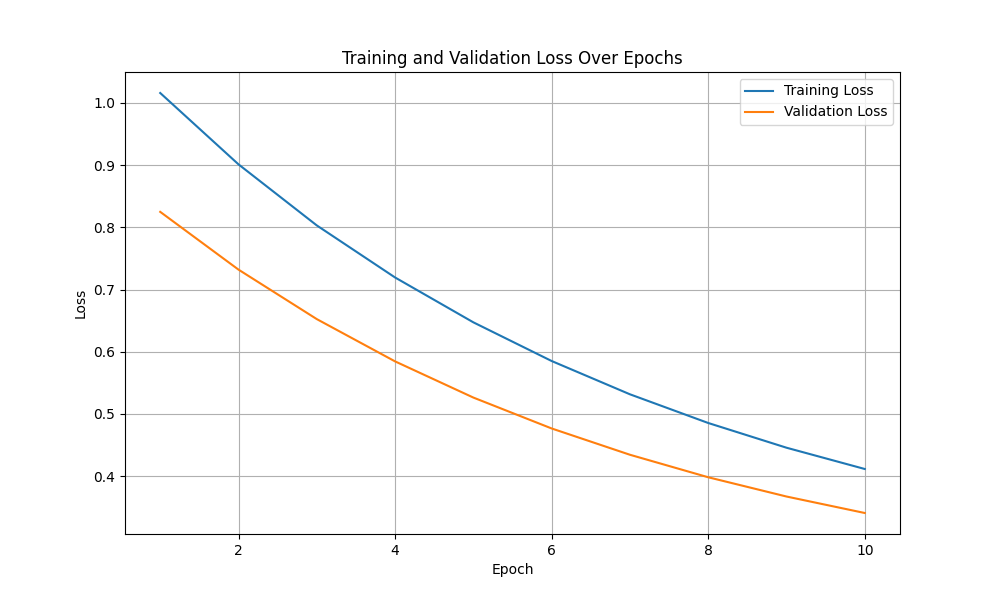
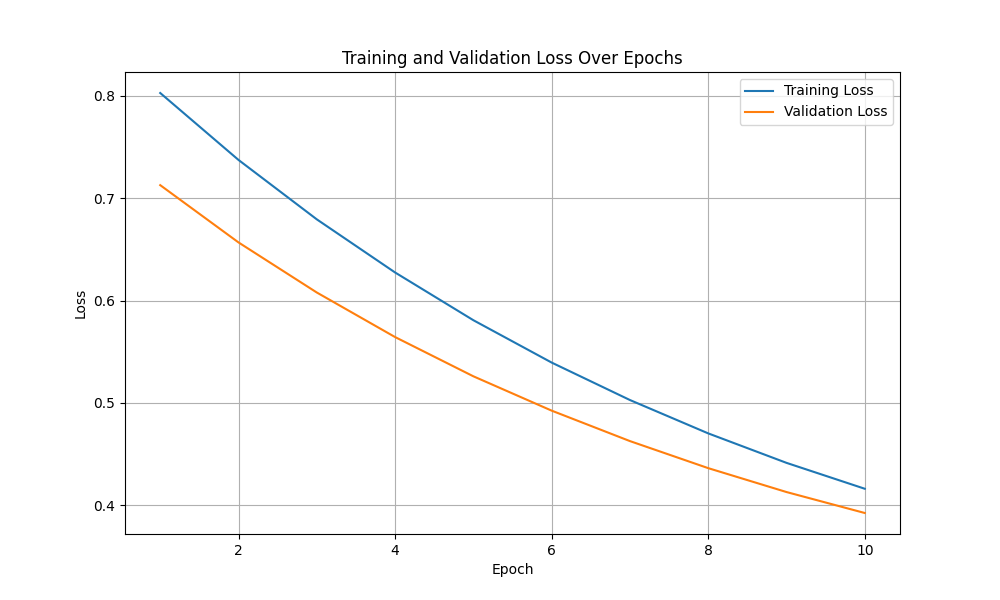
Sample Image & Table for MPG

diff --git a/train_mpg.py b/train_mpg.py
@@ -1,11 +1,11 @@
 '''
-Catherine Rodriguez
+Catherine Rodriquez
 Project 1 - CSC 4700
 '''
 
 import numpy as np
-from os.path import join
 import matplotlib.pyplot as plt
+import pandas as pd
 from mpg_dataloader import dataloader
 from mlp import MultilayerPerceptron, Layer, Relu, SquaredError
 
@@ -22,6 +22,42 @@ def plot_loss_curves(training_losses, validation_losses, epochs):
     plt.grid(True)
     plt.show()
 
+# Report testing loss and 10 sample predictions
+def report_testing_loss_and_samples(mlp_model, X_test, y_test, loss_func):
+    """Compute total testing loss and report predictions for 10 random test samples."""
+    # Manually forward pass through the model to get predictions
+    output = X_test
+    for layer in mlp_model.layers:  # Assuming layers attribute exists
+        output = layer.forward(output)
+
+    predictions = output
+
+    # Compute total testing loss using the loss function
+    test_loss = loss_func.loss(predictions, y_test)  # Use loss() instead of compute()
+    print(f"Total testing loss: {test_loss:.4f}")
+
+    # Select 10 random test samples
+    indices = np.random.choice(range(len(X_test)), 10, replace=False)
+    selected_samples = X_test.iloc[indices]  
+    true_mpg = y_test[indices] 
+
+    # Make predictions for the selected samples
+    output_samples = selected_samples
+    for layer in mlp_model.layers:  # Forward pass for selected samples
+        output_samples = layer.forward(output_samples)
+
+    predicted_mpg = output_samples
+
+    # Create a table for the true vs predicted MPG
+    results = pd.DataFrame({
+        'True MPG': true_mpg.flatten(),  
+        'Predicted MPG': predicted_mpg.flatten()
+    })
+
+    print("\n10 Random Test Samples - Predicted vs True MPG:")
+    print(results)
+
+
 def main():
     # Load the data using the dataloader
     X_train, X_val, X_test, y_train, y_val, y_test, y_mean, y_std = dataloader()
@@ -31,11 +67,10 @@ def main():
     y_val = y_val.reshape(-1, 1)
     y_test = y_test.reshape(-1, 1)
 
-
     # Define the MLP architecture
-    layer1 = Layer(fan_in=X_train.shape[1], fan_out=784, activation_function=Relu())
-    layer2 = Layer(fan_in=784, fan_out=128, activation_function=Relu())
-    output_layer = Layer(fan_in=128, fan_out=1, activation_function=None)  # No activation for regression
+    layer1 = Layer(fan_in=X_train.shape[1], fan_out=64, activation_function=Relu())
+    layer2 = Layer(fan_in=64, fan_out=32, activation_function=Relu())
+    output_layer = Layer(fan_in=32, fan_out=1, activation_function=None)  # No activation for regression
 
     loss_function = SquaredError()  # Use squared error for regression
     mlp_model = MultilayerPerceptron(layers=(layer1, layer2, output_layer))
@@ -56,6 +91,9 @@ def main():
 
     # Plot the loss curves
     plot_loss_curves(training_losses, validation_losses, epochs)
+
+    # Report testing loss and 10 sample predictions
+    report_testing_loss_and_samples(mlp_model, X_test, y_test, loss_function)
 
 if __name__ == "__main__":
     main()

diff --git a/train_mnist.py b/train_mnist.py
@@ -22,6 +22,51 @@ def plot_loss_curves(training_losses, validation_losses, epochs):
     plt.grid(True)
     plt.show()
 
+# Report accuracy
+def report_accuracy(mlp_model, test_x, test_y):
+    """Compute accuracy on the test set."""
+    correct = 0
+    total = len(test_x)
+    
+    for i in range(total):
+        output = test_x[i]
+        for layer in mlp_model.layers:
+            output = layer.forward(output)
+
+        predicted_label = np.argmax(output)
+        true_label = np.argmax(test_y[i])
+        
+        if predicted_label == true_label:
+            correct += 1
+    
+    accuracy = correct / total
+    print(f"Accuracy on the test set: {accuracy * 100:.2f}%")
+
+# Show samples for each class
+def show_class_samples(mlp_model, test_x, test_y, num_classes=10):
+    """Select one sample from each class and show the image with its predicted label."""
+    plt.figure(figsize=(15, 10))
+    for class_id in range(num_classes):
+        class_indices = np.where(np.argmax(test_y, axis=1) == class_id)[0]  
+        sample_index = np.random.choice(class_indices)  # Randomly select one image from the class
+        sample_image = test_x[sample_index].reshape(28, 28)  # Reshape to 28x28 image
+        true_label = class_id
+
+        output = test_x[sample_index]
+        for layer in mlp_model.layers:
+            output = layer.forward(output)
+
+        predicted_label = np.argmax(output)
+
+        # Display the image
+        plt.subplot(2, 5, class_id + 1)
+        plt.imshow(sample_image, cmap="gray")
+        plt.title(f"True: {true_label}, Pred: {predicted_label}")
+        plt.axis('off')
+    plt.tight_layout()
+    plt.show()
+
+
 def main():
     # File path
     mnist_folder = "mnist"
@@ -73,6 +118,12 @@ def main():
 
     # Plot the loss curves
     plot_loss_curves(training_losses, validation_losses, epochs)
+
+    # Report accuracy on the full test dataset
+    report_accuracy(mlp_model, test_x, test_y)
+
+    # Show one sample from each class and display predicted labels
+    show_class_samples(mlp_model, test_x, test_y)
 
 if __name__ == "__main__":
     main()

diff --git a/mpg_dataloader.py b/mpg_dataloader.py
@@ -25,8 +25,8 @@ def dataloader():
     y = y.values 
 
     # Split the data into training, validation, and testing sets
-    X_train, X_leftover, y_train, y_leftover = train_test_split(X, y, test_size=0.3, random_state=42, shuffle=True)  # 70% training, 30% testing+validation
-    X_val, X_test, y_val, y_test = train_test_split(X_leftover, y_leftover, test_size=0.5, random_state=42, shuffle=True)  # Split the 30% into 50% for validation and 50% for testing
+    X_train, X_leftover, y_train, y_leftover = train_test_split(X, y, test_size=0.3, random_state=42, shuffle=True)  # 70% training, 30% testing & validation
+    X_val, X_test, y_val, y_test = train_test_split(X_leftover, y_leftover, test_size=0.5, random_state=42, shuffle=True)  # Split the 30% into 15% for validation and 15% for testing
 
     # Standardize the data 
     X_mean = X_train.mean(axis=0)

diff --git a/mlp.py b/mlp.py
@@ -182,10 +182,6 @@ class Layer:
         :param delta: delta term from layer above
         :return: (weight gradients, bias gradients)
         """
-
-        # print("delta shape:", delta.shape)
-        # print("activation function derivative shape:", self.activation_function.derivative(self.activations).shape)
-
         # for Softmax -> Jacobian
         if isinstance(self.activation_function, Softmax):
             jacobian = self.activation_function.derivative(self.activations)  # Jacobian (batch_size, num_classes, num_classes)
